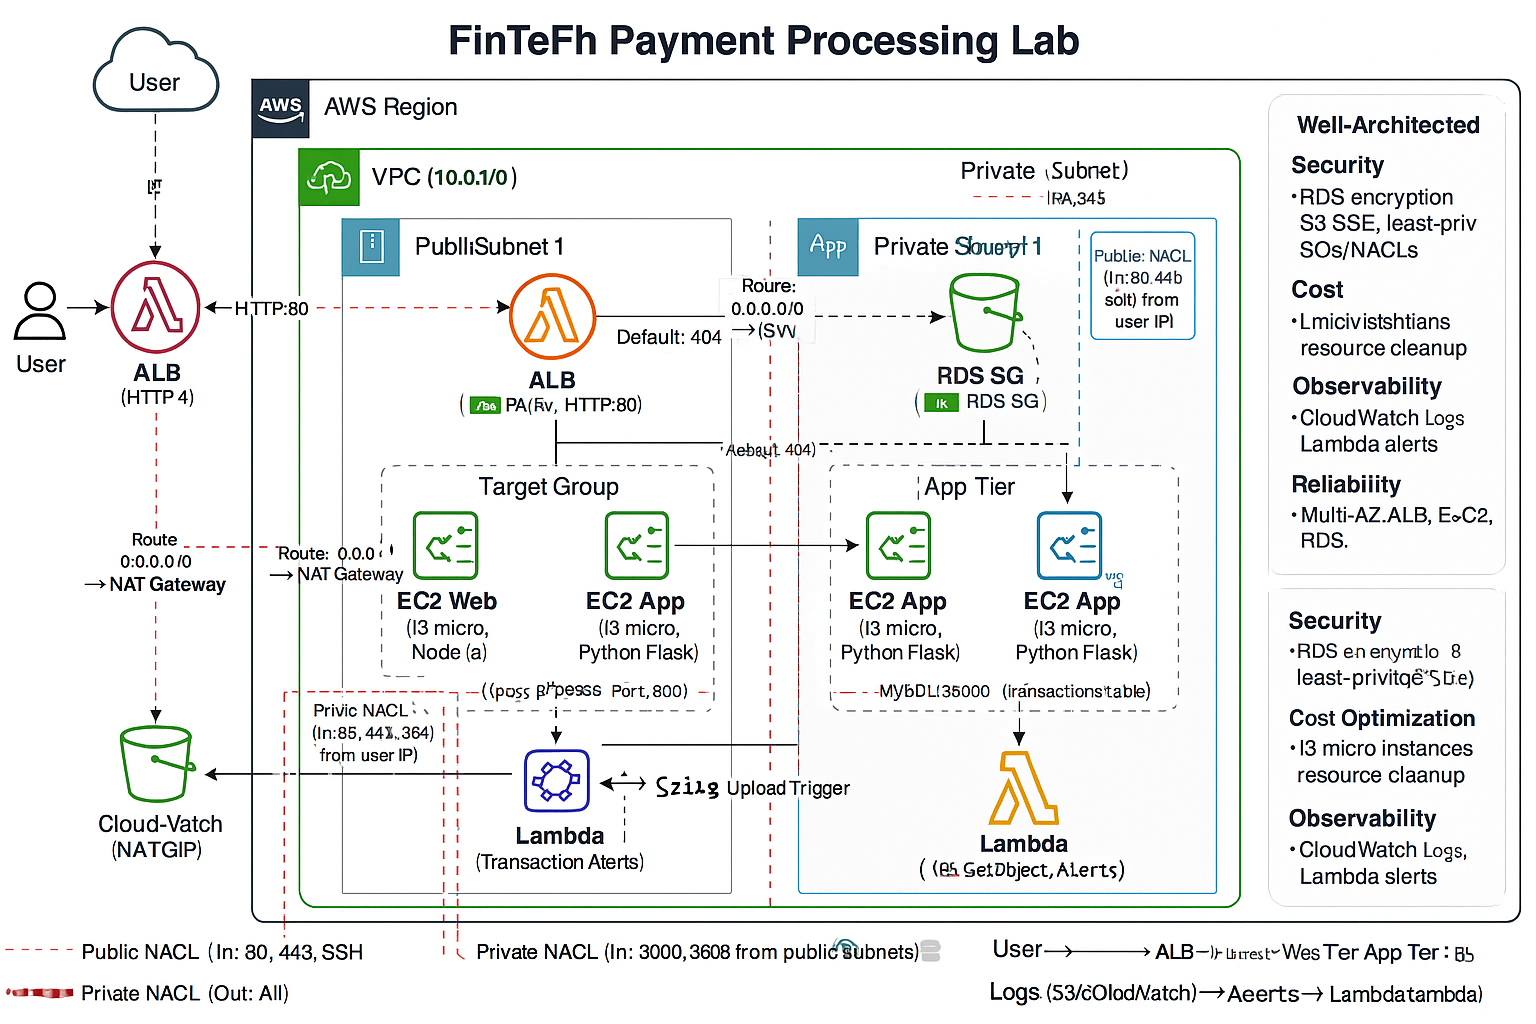
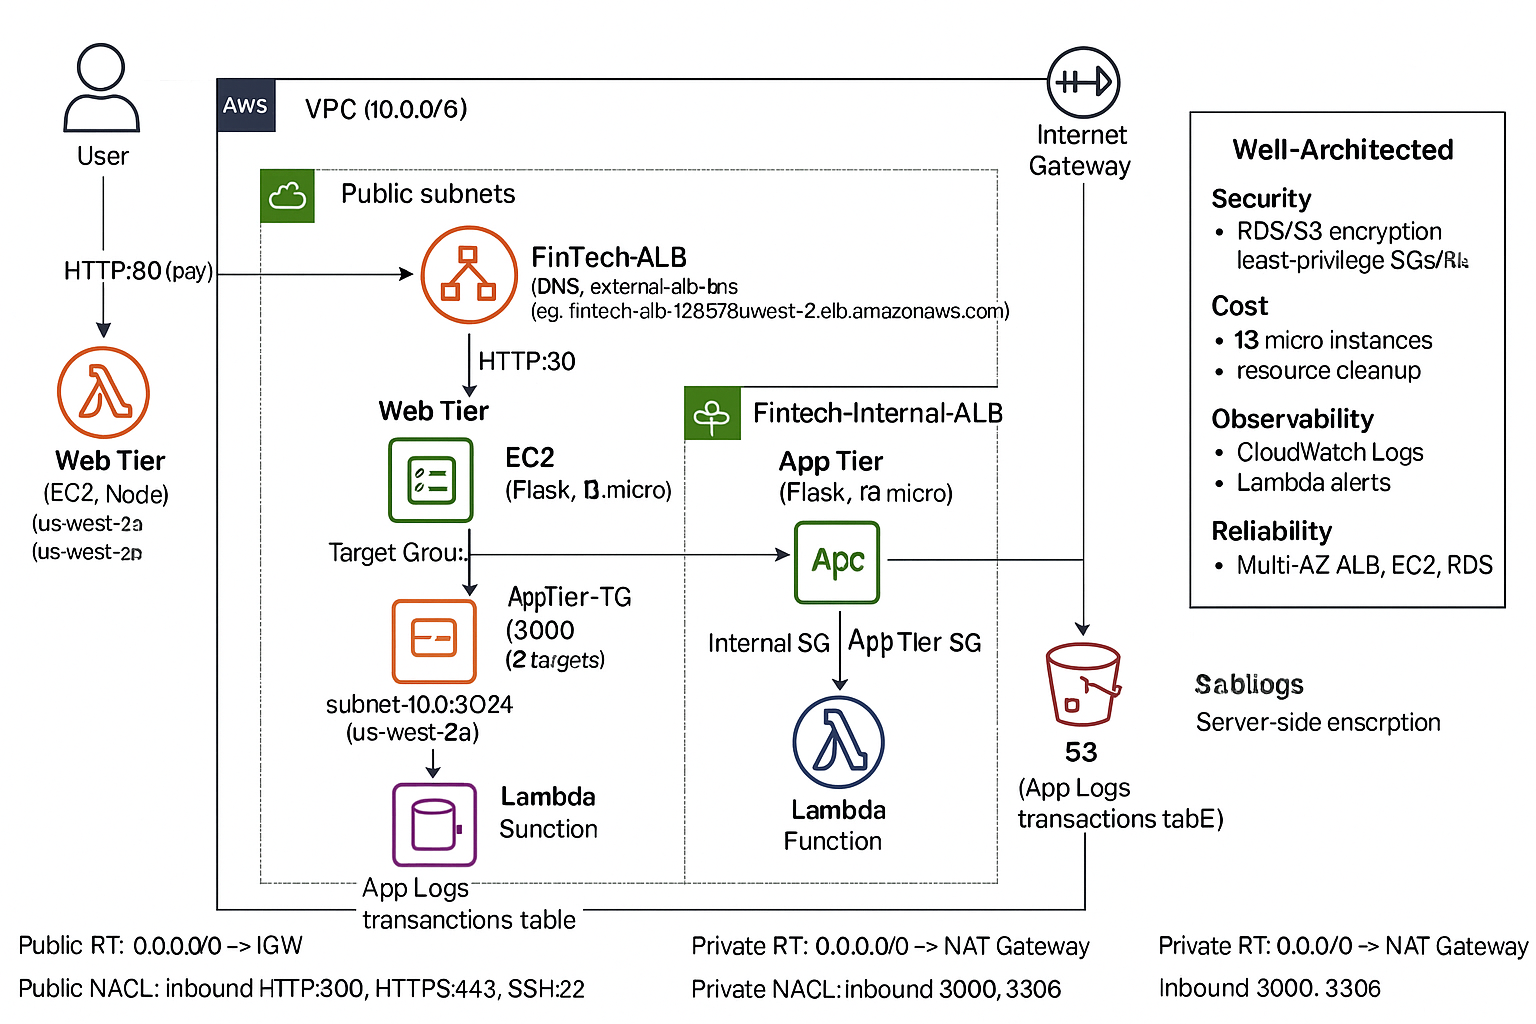
Update README with detailed architecture diagram and description

Changed region(s): [[0.0, 0.0, 1.0, 1.0]]

diff --git a/README.md b/README.md
@@ -6,43 +6,51 @@ This project deploys a secure, scalable FinTech payment processing pipeline on A
 
 ## Architecture Overview
 
-![Architecture Diagram](architecture-diagram.png)
+### End-to-End Workflow
+![FinTech Payment Processing Workflow](architecture-diagram.png)
+This diagram illustrates the end-to-end workflow of the payment processing system, from user interaction to logging and alerts.
+
+### Detailed Architecture Breakdown
+![FinTech Payment Processing Detailed Architecture](architecture-details.png)
+This diagram provides a detailed breakdown of the 3-tier architecture, focusing on subnet configurations, NACLs, and Well-Architected principles applied in the lab.
 
 **Core Workflow:**
 1. A user submits a payment via a public-facing Application Load Balancer (ALB) on HTTP/80.
-2. The ALB forwards the request to a Node.js server in the Web Tier (EC2 t3.micro instances in public subnets).
-3. The Web Tier routes the request to an internal ALB, which forwards to Flask servers in the App Tier (EC2 t3.micro instances in private subnets).
-4. Flask processes the payment and writes logs to Amazon S3, triggering a Lambda function.
+2. The public ALB forwards the request to a Node.js server in the Web Tier (EC2 t3.micro instances in public subnets).
+3. The Web Tier sends a POST request to an internal ALB (DNS: `internal-FinTech-Internal-ALB-986761868.us-west-2.elb.amazonaws.com`) on port 3000, which load balances traffic to Flask servers in the App Tier (EC2 t3.micro instances in private subnets) via the `/process` endpoint.
+4. Flask processes the payment, writes logs to Amazon S3, triggering a Lambda function.
 5. Lambda processes the transaction and stores it in an Amazon RDS MySQL database (private subnets, encrypted).
 
 ---
 
 ## Tech Stack
 
-| Layer          | Service/Tool         | Purpose                          |
-|----------------|----------------------|----------------------------------|
-| Compute        | EC2 (Node.js & Flask)| Host Web and App Tier services   |
-| Load Balancing | Application Load Balancer (x2) | Route traffic to Web/App Tiers |
-| Storage        | Amazon S3            | Store logs and trigger Lambda    |
-| Database       | Amazon RDS (MySQL)   | Store transaction data securely  |
-| Event-driven   | AWS Lambda           | Process S3 logs and update RDS   |
-| Security       | IAM, SGs, NACLs      | Enforce least-privilege access   |
-| Networking     | VPC (public & private subnets) | Isolate tiers for security     |
+| Layer          | Service/Tool                  | Purpose                          |
+|----------------|-------------------------------|----------------------------------|
+| Compute        | EC2 (Node.js & Flask)         | Host Web and App Tier services   |
+| Load Balancing | Application Load Balancer (x2)| Route traffic to Web/App Tiers   |
+|                | - Public ALB                  | Handle external user traffic     |
+|                | - Internal ALB                | Load balance internal App Tier   |
+| Storage        | Amazon S3                     | Store logs and trigger Lambda    |
+| Database       | Amazon RDS (MySQL)            | Store transaction data securely  |
+| Event-driven   | AWS Lambda                    | Process S3 logs and update RDS   |
+| Security       | IAM, SGs, NACLs               | Enforce least-privilege access   |
+| Networking     | VPC (public & private subnets)| Isolate tiers for security       |
 
 ---
 
-### What I Learned
+## What I Learned
 
 - Troubleshot **504 Gateway Timeout** errors by adjusting ALB health check thresholds and EC2 instance response times.
 - Configured **ALB target groups** with proper health checks (port 3000, /health endpoint) and debugged failures.
-- Set up an **internal ALB** to route traffic securely to private subnets, ensuring no public access to the App Tier.
+- Set up an **internal ALB** in private subnets to securely route traffic from the Web Tier to the App Tier, improving load balancing and isolation, and configured health checks for the AppTier-TG-3000 target group.
 - Installed packages on **isolated EC2s** by temporarily enabling NAT Gateway access, then disabling for security.
 - Connected **S3 triggers** to Lambda and ensured proper IAM roles for s3:GetObject and logs:PutLogEvents.
 - Built a **resilient and secure multi-tier network** with VPC, NACLs, and SGs, following Well-Architected principles.
 
 ---
 
-### How to Test the Pipeline
+## How to Test the Pipeline
 
 1. Send a payment (replace `<external-alb>` with the ALB DNS name from the AWS Console):
 ```bash
@@ -52,33 +60,29 @@ curl -X POST http://<external-alb>/pay \
 
 2. Connect to RDS and verify data:
 sql
-
-Copy
 SELECT * FROM payments.transactions ORDER BY id DESC;
 
-
 ---
+
 ### Built Without
-- No Terraform, CDK, or CloudFormation (manual setup for learning purposes).
-- No managed frontend (Node.js app built from scratch).
-- No public RDS (kept private with SGs and NACLs for security best practices).
+-No Terraform, CDK, or CloudFormation (manual setup for learning purposes).
+-No managed frontend (Node.js app built from scratch).
+-No public RDS (kept private with SGs and NACLs for security best practices).
 
+### Screenshots
+Terminal output, AWS Console configurations, and MySQL queries are located in the screenshots/ folder. Useful for documentation, verification, and future reference.
 
-#### Screenshots
-Terminal output, curl responses, AWS Console configurations (e.g., ALB setup in `screenshots/alb-config.png`), and MySQL queries are located in the `screenshots/` folder. Useful for documentation, verification, and future reference.
+## Well-Architected Alignment
+-Security: RDS encryption, S3 server-side encryption, least-privilege SGs/NACLs.
+-Cost Optimization: Used t3.micro instances, cleaned up resources post-deployment.
+-Observability: Integrated CloudWatch Logs and Lambda for transaction alerts.
+-Reliability: Multi-AZ setup for ALB, EC2, and RDS.
 
-
-### Well-Architected Alignment
-- **Security**: RDS encryption, S3 server-side encryption, least-privilege SGs/NACLs.
-- **Cost Optimization**: Used t3.micro instances, cleaned up resources post-deployment.
-- **Observability**: Integrated CloudWatch Logs and Lambda for transaction alerts.
-- **Reliability**: Multi-AZ setup for ALB, EC2, and RDS.
-
-
-### About Me
+## About Me
 I'm diving deep into cloud engineering by building real AWS infrastructure from the ground up. I currently hold the Google Associate Cloud Engineer certification and am preparing for the AWS Solutions Architect Associate (SAA) exam. After that, I’m aiming to earn the HashiCorp Terraform Associate and Certified Kubernetes Administrator (CKA) certifications.
 
 Each project I build sharpens my understanding and brings me closer to being job-ready in real cloud environments.
 
-If you're hiring or collaborating, feel free to reach out — I’m motivated, learning fast, and excited to contribute to real-world systems.  
+If you're hiring or collaborating, feel free to reach out — I’m motivated, learning fast, and excited to contribute to real-world systems.
+
 Email: hatelydane@gmail.com
